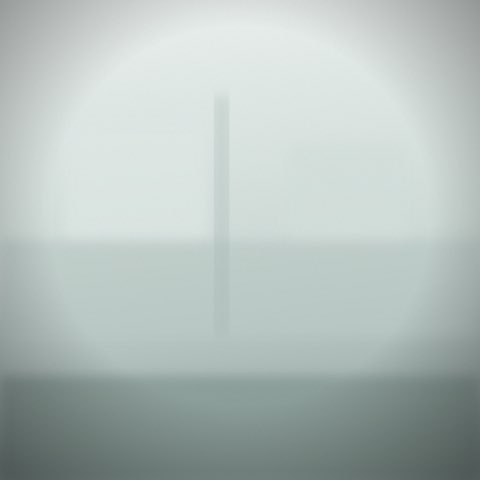
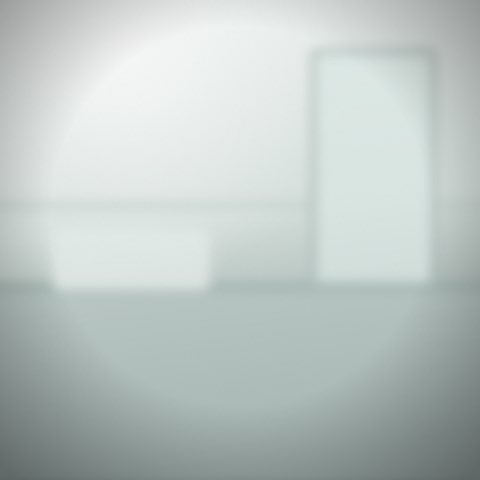
fix(admin): keep the proof row inside the compact panel; isolate leaflet z-index
Two issues found while reviewing the running app:
- the proof-of-work row rendered below Approve/Reject and pushed the expanded
  panel past its ~300px budget, leaving a dead gap in the right column. It now
  sits in that gap, above the decision — evidence before Approve.
- FullscreenMapWrapper's controls (z-index 1000) punched through modals opened
  over a map, including the photo lightbox. The wrapper now isolates its
  stacking context.

Changed region(s): [[0.0312, 0.7812, 0.9688, 1.0], [0.0938, 0.5, 0.4375, 0.5938], [0.4375, 0.1875, 0.5, 0.4062]]

diff --git a/admin/src/features/timesheets/components/review-panel.tsx b/admin/src/features/timesheets/components/review-panel.tsx
@@ -157,6 +157,10 @@ export function ReviewPanel({ row, site, workerNames, busy, onReview }: ReviewPa
           </p>
         )}
 
+        {/* Work evidence sits above the decision, in the space the column
+            already had — the panel stays inside its compact height. */}
+        <ProofOfWorkRow row={row} workerNames={workerNames} />
+
         <div className="mt-auto flex items-center justify-end gap-2">
           {row.reviewed_at && (
             <span className="mr-auto text-xs text-muted-foreground">
@@ -181,8 +185,6 @@ export function ReviewPanel({ row, site, workerNames, busy, onReview }: ReviewPa
           )}
         </div>
       </div>
-
-      <ProofOfWorkRow row={row} workerNames={workerNames} />
     </div>
   );
 }
@@ -216,7 +218,7 @@ function ProofOfWorkRow({
   const issueCount = issues.data?.length ?? 0;
 
   return (
-    <div className="flex flex-col gap-2 border-t pt-3 lg:col-span-2">
+    <div className="flex flex-col gap-2 border-t pt-3">
       <div className="flex flex-wrap items-center gap-x-4 gap-y-2">
         <div className="flex items-center gap-2">
           <ProgressRing

diff --git a/admin/src/components/fullscreen-map-wrapper.tsx b/admin/src/components/fullscreen-map-wrapper.tsx
@@ -60,7 +60,10 @@ export function FullscreenMapWrapper({ children, className = '', style }: Fullsc
   }, []);
 
   return (
-    <div ref={wrapperRef} className={`relative bg-card ${className}`} style={style}>
+    // `isolate` keeps Leaflet's own z-indexes (and this button's) inside the
+    // map's stacking context — without it they punch through modals opened
+    // over the map, e.g. the photo-proof lightbox.
+    <div ref={wrapperRef} className={`relative isolate bg-card ${className}`} style={style}>
       {children}
       <button
         type="button"
